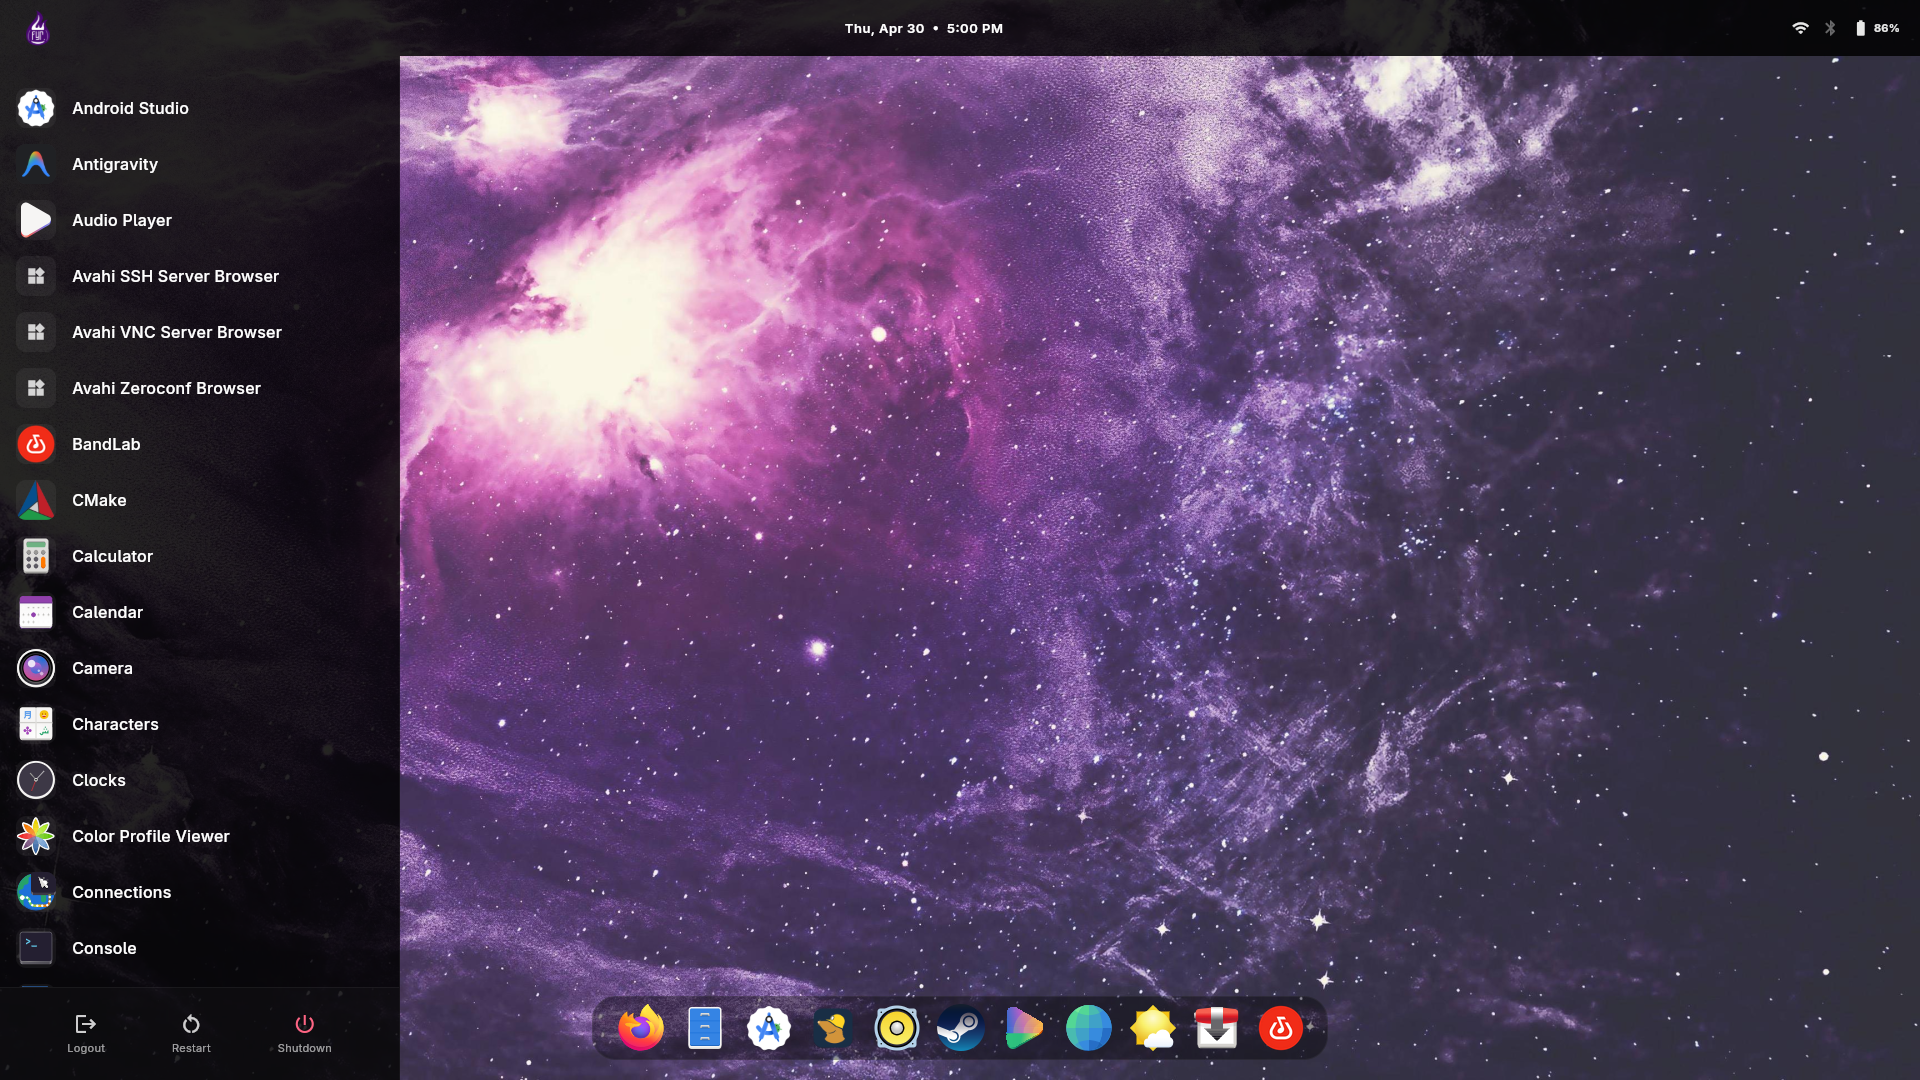
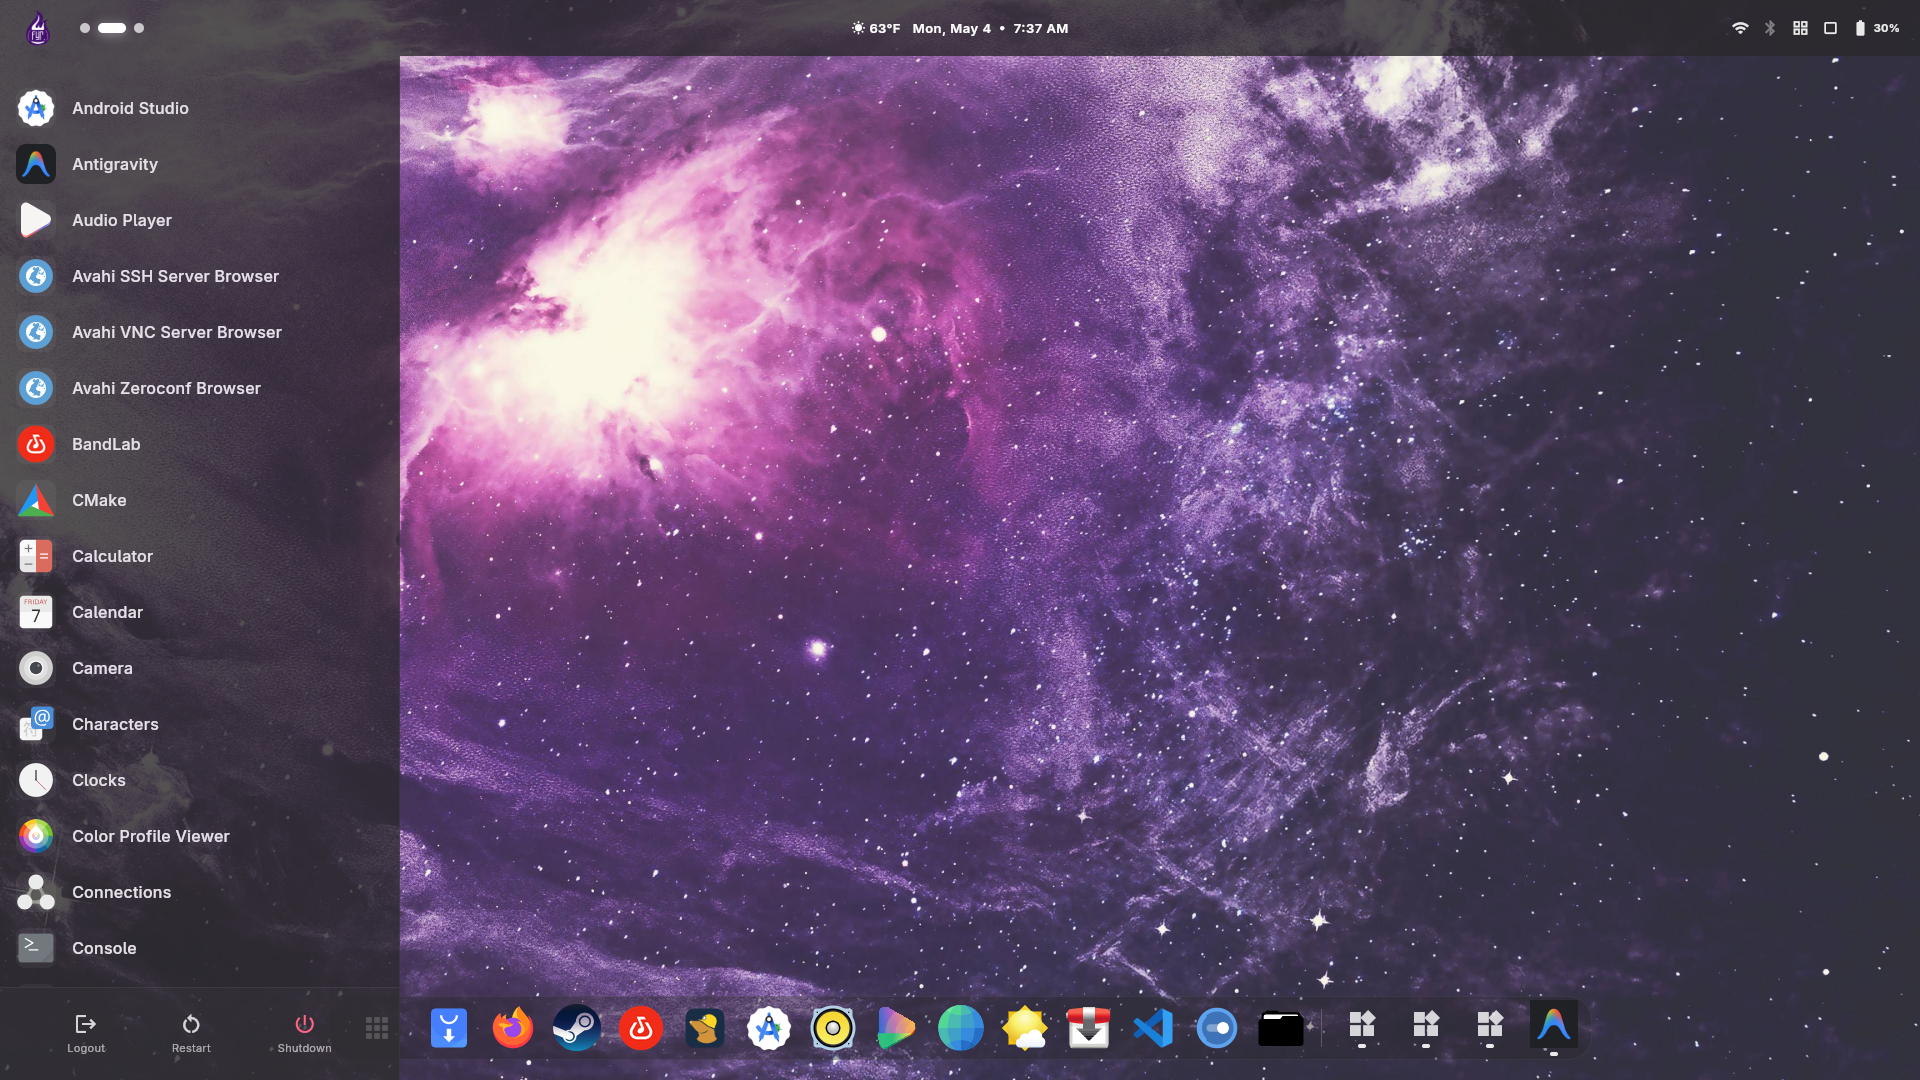
readme

Changed region(s): [[0.0, 0.0, 1.0, 1.0], [0.4062, 0.9167, 0.8438, 0.9778]]

diff --git a/fyrhelp/lib/main.dart b/fyrhelp/lib/main.dart
@@ -168,9 +168,10 @@ class _HelpScreenState extends State<HelpScreen> {
                       _buildShortcut('Alt + Shift + Tab', 'Focus Previous Window'),
                       _buildShortcut('Super + T', 'Open Terminal (fyrterm)'),
                       _buildShortcut('Super + F', 'Open File Manager (fyr_files)'),
+                      _buildShortcut('Super + M', 'Toggle Floating Mode'),
                       _buildShortcut('Super + Space', 'Open App Launcher (fyrsearch)'),
                       _buildShortcut('Super + Tab', 'Open Overview (fyroverview)'),
-                      _buildShortcut('Super + /', 'Show This Cheatsheet (fyrhelp)'),
+                      _buildShortcut('Super + Ctrl', 'Show This Cheatsheet (fyrhelp)'),
                       _buildShortcut('Super + .', 'Open Emoji Picker (fyremoji)'),
                       _buildShortcut('Super + V', 'Split Vertical'),
                       _buildShortcut('Super + H', 'Split Horizontal'),
@@ -181,7 +182,7 @@ class _HelpScreenState extends State<HelpScreen> {
                       _buildShortcut('Swipe 3 L/R', 'Prev/Next Workspace'),
                       _buildShortcut('Swipe 3 D/U', 'Show/Hide Overview'),
                       _buildShortcut('Print Screen', 'Take Screenshot'),
-                      _buildShortcut('Super + Shift + S', 'Take Region Screenshot'),
+                      _buildShortcut('Super + Print Screen', 'Toggle Screen Recording'),
                     ],
                   ),
                 ),

diff --git a/README.md b/README.md
@@ -1,13 +1,32 @@
 # Fyr Desktop Environment (fyrDE)
 
-![Desktop](screenshots/desktop.png)
+![Idle](screenshots/idle.png)
+![Dark Mode](screenshots/dark%20mode.png)
+![Light Mode](screenshots/light%20mode.png)
 ![Menu](screenshots/menu.png)
-![Quick Settings](screenshots/quick_settings.png)
+![Quick Settings](screenshots/quick%20settings.png)
+![Calendar](screenshots/calender.png)
 ![Search](screenshots/search.png)
-![Tiled](screenshots/tiled.png)
-![Workspace](screenshots/workspace.png)
+![Overview](screenshots/overview.png)
+![Floating](screenshots/floating.png)
+![Help](screenshots/help.png)
+![Emoji](screenshots/emoji.png)
 
 This repository contains the core configuration and setup scripts for the fyr Desktop Environment (fyrDE)
+
+## How it Works
+
+FyrDE uses a custom fork of Sway (SwayFX) to provide a Wayland compositor. On top of this compositor, it runs a suite of custom-built **Flutter applications** to provide the core desktop experience:
+- **fyrtaskbar**: Top panel with system tray, clock, and quick settings.
+- **fyrdock**: macOS-like dock for launching apps and managing open windows.
+- **fyrsearch**: Spotlight-like application launcher and search tool.
+- **fyroverview**: Exposé-like window and workspace overview.
+- **fyrsettings**: Control center for system settings.
+- **fyrhelp**: A quick-access keyboard shortcut cheatsheet.
+- **fyremoji**: An emoji picker.
+- **fyrTerm**: A custom Flutter terminal emulator.
+- **fyrFiles**: A custom Flutter file manager.
+- **fyrstore**: A software center.
 
 ## Installation on Arch Linux
 
@@ -39,8 +58,10 @@ chmod +x install.sh
 - **Updates your system** via `pacman -Syu`.
 - **Installs base-devel and git** if they are missing.
 - **Installs the `yay` AUR helper** to allow installation of AUR packages.
-- **Installs System Dependencies:** `swaybg`, `swaylock`, `swayidle`, `xorg-xwayland`, `foot`, `wmenu`, `gtk-layer-shell`, `xdg-desktop-portal` suites, `xclip`, `wl-clipboard`, `brightnessctl`, `wireplumber`, `wlsunset`, `grim`, `cmake`, `cpio`, `pkg-config`, `gcc`.
-- **Installs `swayfx`** from the AUR.
+- **Installs System Dependencies:** `swaybg`, `swaylock`, `swayidle`, `xorg-xwayland`, `foot`, `wmenu`, `gtk-layer-shell`, `xdg-desktop-portal` suites, `xclip`, `wl-clipboard`, `brightnessctl`, `wireplumber`, `wlsunset`, `grim`, `wf-recorder`, `ninja`, `clang`, `meson`, `scdoc`, `wayland-protocols`, `pcre2`, `json-c`, `pango`, `cairo`, `gdk-pixbuf2`, `cmake`, `cpio`, `pkg-config`, `gcc`.
+- **Installs AUR Dependencies:** `scenefx0.4`, `wlroots0.19`, `xdg-desktop-portal-termfilechooser-hunkyburrito-git`, `flutter`.
+- **Installs `swayfx`** by building the local fork.
+- **Builds and Installs** all of the Flutter applications.
 - **Applies the Configuration:** Creates the `~/.config/sway` directory and copies the `sway/config` from this repository to `~/.config/sway/config`.
 
 ### 3. Customization
@@ -65,7 +86,13 @@ FyrDE relies on standard Sway keyboard shortcuts, with a few custom additions. T
 | Close Window | `Super + Q` |
 | Open Application Launcher (Fyrsearch) | `Super + Space` |
 | Toggle Overview (Fyroverview) | `Super + Tab` |
+| Show Cheatsheet (Fyrhelp) | `Super + Ctrl` |
+| Open Emoji Picker (Fyremoji) | `Super + .` |
+| Open Terminal (Fyrterm) | `Super + T` |
+| Open File Manager (Fyrfiles) | `Super + F` |
+| Toggle Floating Mode | `Super + M` |
 | Take a Screenshot | `Print Screen` |
+| Toggle Screen Recording | `Super + Print Screen` |
 | **Window Management** | |
 | Change Focus | `Super + Arrow Keys` |
 | Resize Window | `Super + Shift + Arrow Keys` |
@@ -75,6 +102,9 @@ FyrDE relies on standard Sway keyboard shortcuts, with a few custom additions. T
 | **Workspaces** | |
 | Switch to Workspace 1-10 | `Super + 1-0` |
 | Move Window to Workspace 1-10 | `Super + Shift + 1-0` |
+| **Touchpad Gestures** | |
+| Switch Workspace Prev/Next | `Swipe 3 Fingers Left/Right` |
+| Toggle Overview | `Swipe 3 Fingers Down/Up` |
 | **Media & Brightness** | |
 | Volume Up / Down | `Volume Keys` |
 | Mute Audio / Mic | `Mute / Mic Mute Keys` |